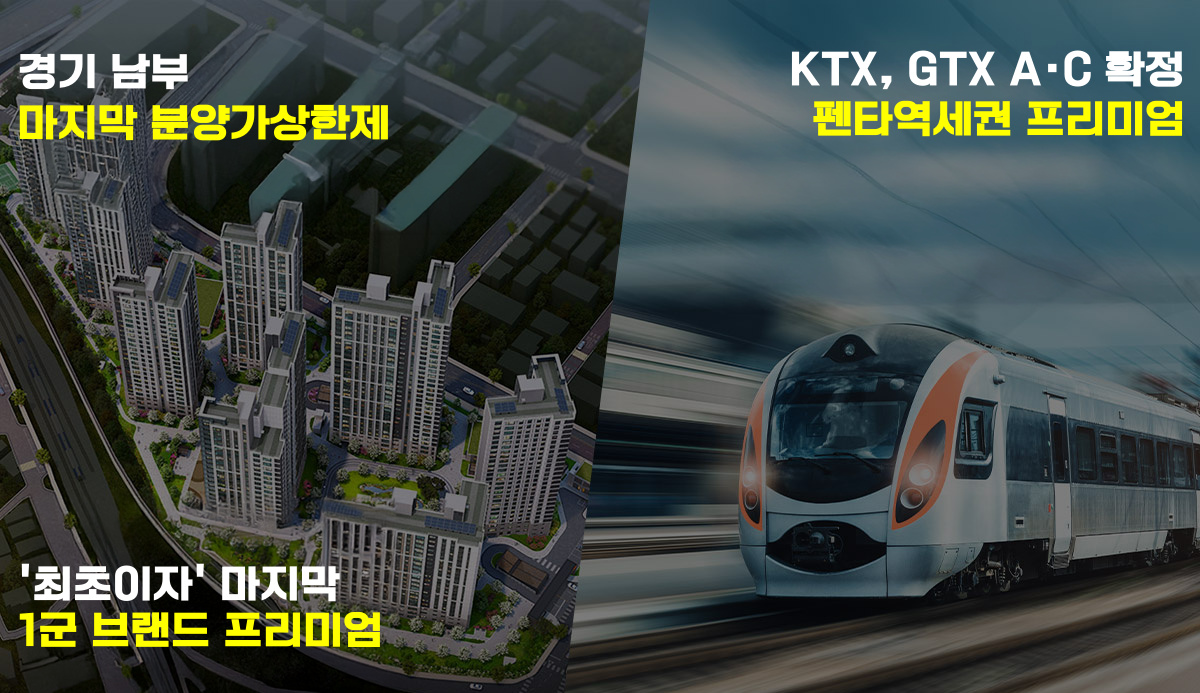
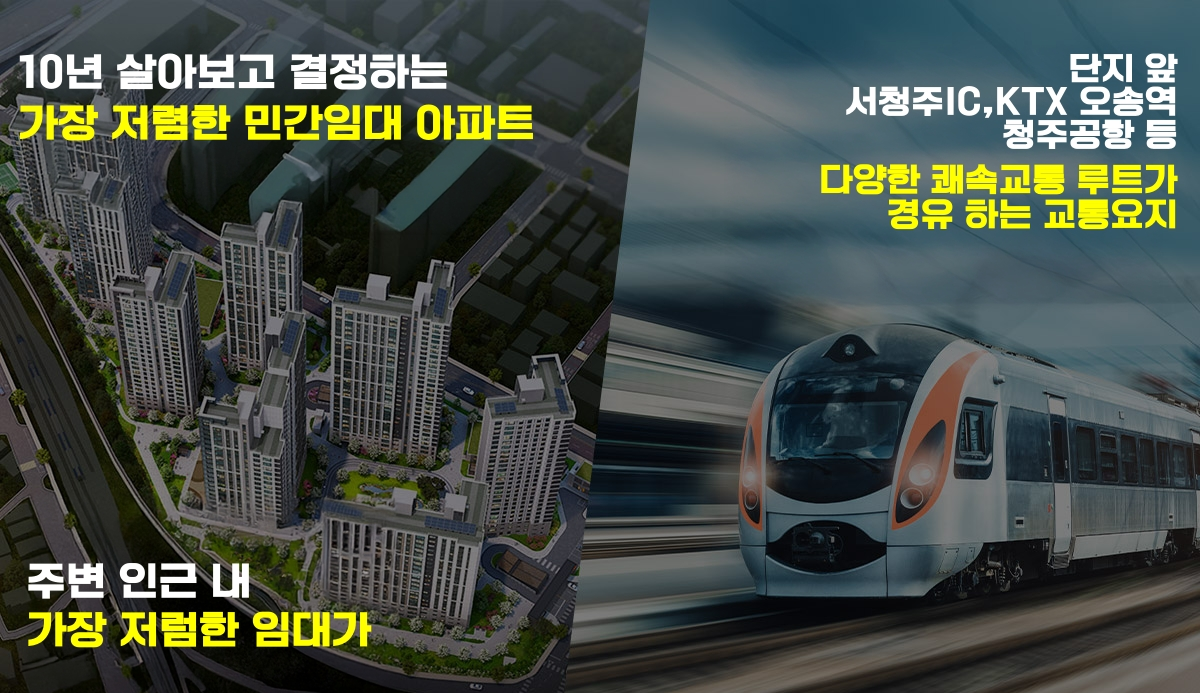
feat : 홈페이지 업데이트

Changed region(s): [[0.6475, 0.0606, 0.9867, 0.3333], [0.0, 0.0606, 0.4625, 0.2121], [0.0, 0.7879, 0.3392, 0.9394]]

diff --git a/src/pages/Main/Main.jsx b/src/pages/Main/Main.jsx
@@ -160,7 +160,7 @@ const Main = () => {
         // PC 버전
         <>
           <Header isChanged={isScroll} />
-          {isOpenPopup1 && (
+          {/* {isOpenPopup1 && (
             <Popup
               onClosed={() => setIsOpenPopup1(false)}
               popupImage={popupPage1}
@@ -180,7 +180,7 @@ const Main = () => {
               popupImage={popupPage3}
               numbering={3}
             />
-          )}
+          )} */}
 
           <div className={styles.imageContainer}>
             <img
@@ -194,7 +194,7 @@ const Main = () => {
                 압도적인 1군 브랜드{" "}
                 <span className={styles.greyText}>브랜드 프리미엄</span> |
                 부담을 덜어주는{" "}
-                <span className={styles.greyText}>저렴한 확정분양가</span> | 10년살고고
+                <span className={styles.greyText}>저렴한 확정분양가</span> | 10년살고
                 결정하는 기회{" "}
                 <span className={styles.greyText}>착한조건</span>
               </div>
@@ -230,10 +230,10 @@ const Main = () => {
                   " 방문 예약 고객 전원 신세계상품권 100% 증정 "
                 </div>
                 <div className={styles.text3}>
-                  - 브레인시티 중심상업지구 매우인접 <br />
-                  - 첨단 아주대학교 종합병원 도보 5분 <br />- 청주 지제역 1호선,
-                  STR, KTX, GTX-A · C 확정으로 펜타역세권 <br />- 모두를 누리는
-                  현대 테크노 레이원시티
+                  - 쉐프가 직접만드는 입주민 조식,중식 서비스제공 <br />
+                  - 수준 높은 국제교육 시설 단지내 YBM 영어마을 <br />
+                  - 취득세 종부세, 건보료, 주택수 미포함 등 다양한 세제혜택 <br />
+                  - 모두를 누리는 현대 테크노 레이원시티
                 </div>
                 <div className={styles.text4}>
                   <a
@@ -460,7 +460,7 @@ const Main = () => {
       ) : (
         // 모바일 버전
         <div className={styles.mobileMain}>
-          {isOpenPopup1 && (
+          {/* {isOpenPopup1 && (
             <MobilePopup
               onClosed={() => setIsOpenPopup1(!isOpenPopup1)}
               popupImage={mobilePopupPage1}
@@ -487,7 +487,7 @@ const Main = () => {
               popupImage={mobilePopupPage3}
               numbering={4}
             />
-          )}
+          )} */}
 
           <Header isChanged={isScroll} />
 
@@ -500,15 +500,15 @@ const Main = () => {
             <div className={styles.overlay}></div>
             <div className={styles.mainImageTextBox1}>
               <div className={styles.mainImageTextSub1}>
-                분양가 상한제 적용
-                <br />
-                <span className={styles.greyText}>처음이자 마지막</span>
-                <br />
-                1군브랜드
+                압도적인 1군브랜드
                 <br />
                 <span className={styles.greyText}>브랜드 프리미엄</span>
                 <br />
-                계약금 5%로 내집마련기회
+                부담을 덜어주는
+                <br />
+                <span className={styles.greyText}>저렴한 확정분양가</span>
+                <br />
+                10년 살아보고 결정하는
                 <br />
                 <span className={styles.greyText}>착한조건</span>
               </div>
@@ -524,13 +524,10 @@ const Main = () => {
               "방문예약을 하시면 신세계 상품권 100% 증정 "
             </div>
             <div className={styles.text3}>
-              - 브레인시티 중심상업지구 가장인접한 입지
-              <br />
-              - 첨단 아주대학교 AI종합병원, 의료R＆D센터 도보 5분
-              <br />
-              - 청주 지제역 KTX, GTX-A · C 확정 삼성전자 청주캠퍼스, 초등학교,
-              수변공원
-              <br />- 모두를 누리는 반도체밸리 주거 타운의 완성
+            - 쉐프가 직접만드는 입주민 조식,중식 서비스제공 <br />
+                  - 수준 높은 국제교육 시설 단지내 YBM 영어마을 <br />
+                  - 취득세 종부세, 건보료, 주택수 미포함 등 다양한 세제혜택 <br />
+                  - 모두를 누리는 현대 테크노 레이원시티
             </div>
             <div className={styles.text4}>
               {/* 외부 링크 대신 방문예약 클릭 시 팝업 호출 */}
@@ -550,7 +547,7 @@ const Main = () => {
           <div className={styles.container7}>
             <div className={styles.textBox}>
               <div className={styles.title}>
-                청주 브레인시티의 중심으로 사는
+                청주의 중심으로 사는
                 <br />
                 <span>최고의 브랜드 아파트</span>
               </div>

diff --git a/src/components/Bener/Bener.jsx b/src/components/Bener/Bener.jsx
@@ -47,7 +47,7 @@ const contents = (text, isLoaded) => {
                     지친 하루를 마치고 가장 나에 가까운 본연의 모습으로 돌아와 누리는 프리미엄입니다.
                 </div>
                 <div className={`${styles.text} ${isLoaded ? styles.showText : ''}`}>
-                    브레인시티의 중심
+                    청주 배후수요의 중심
                 </div>
                 <div className={`${styles.text} ${isLoaded ? styles.showText : ''}`}>
                     NO.1 브랜드 현대 테크노 레이원시티와 함께합니다.
@@ -58,16 +58,16 @@ const contents = (text, isLoaded) => {
         return (
             <>
                 <div className={`${styles.text} ${isLoaded ? styles.showText : ''}`}>
-                    아주대 종합병원이 선택한 새도시!
+                   현대가 선택한 새도시!
                 </div>
                 <div className={`${styles.text} ${isLoaded ? styles.showText : ''}`}>
-                    평택삼성전자캠퍼스 · 지제역 펜타역세권 프리미엄
+                    20조원이상 투자되는 SK하이닉스 신규 팸(FAB) · M15X 인접
                 </div>
                 <div className={`${styles.text} ${isLoaded ? styles.showText : ''}`}>
                     가장 높은 브랜드의 첫 시작
                 </div>
                 <div className={`${styles.text} ${isLoaded ? styles.showText : ''}`}>
-                현대 테크노 레이원시티
+                    현대 테크노 레이원시티
                 </div>
             </>
         );
@@ -78,7 +78,7 @@ const contents = (text, isLoaded) => {
                     수준 높은 생활, 첨단신도시내 착한 브랜드 아파트
                 </div>
                 <div className={`${styles.text} ${isLoaded ? styles.showText : ''}`}>
-                    기대하던 모든 프리미엄이현대 테크노 레이원시티에서 펼쳐집니다
+                    기대하던 모든 프리미엄이 현대 테크노 레이원시티에서 펼쳐집니다
                 </div>
             </>
         );
@@ -92,7 +92,7 @@ const contents = (text, isLoaded) => {
                     편리한 생활을 위한 최적의 공간설계
                 </div>
                 <div className={`${styles.text} ${isLoaded ? styles.showText : ''}`}>
-                    소수에게만 허락된 현대 테크노 레이원시티, 처음이자 마지막으로 브레인시티에 찾아옵니다
+                    소수에게만 허락된 현대 테크노 레이원시티, 청주에 찾아옵니다
                 </div>
             </>
         );

diff --git a/src/pages/LocationEnvironment/LocationEnvironment1.jsx b/src/pages/LocationEnvironment/LocationEnvironment1.jsx
@@ -23,15 +23,15 @@ import HelmetCOM from "../../components/HelmetCOM/HelmetCOM";
 const LocationSection = [
 	{ img: section2Image1, titleText: "확정된 개발호재로<br />청주을 더 새롭게 살수록 높아지는 미래가치", contentText: "SK하이닉스 신규팸 계획 20조원 투자예정<br />최첨단 반도체 산업의 최중심<br />" },
 	{ img: section2Image2, titleText: "도보5분으로<br />의세권을 누리릴 수 있는 프리미엄", contentText: "아주대 첨단의료AI복합타운<br />AI활용 첨단의료시설로<br /> 500병상 규모로 2030년 개원 예정" },
-	{ img: section2Image3, titleText: "수도권 시내·외를 더 빠르게<br />광역으로 통하는 특급 교통", contentText: "오송역 KTX, 청주공항 등 <br />1호선, SRT (현재운행중), KTX, GTX-A/C 확정<br /> 수도권 내 유일 펜타역세권 프리미엄" },
+	{ img: section2Image3, titleText: "수도권 시내·외를 더 빠르게<br />광역으로 통하는 특급 교통", contentText: "단지 앞 청주2순환로, 중부고속도로 서청주IC, <br />KTX 오송역, 청주공항 등 <br /> 다양한 쾌속교통 루트가 경유 하는 교통요지" },
 	{ img: section2Image4, titleText: "학교, 쇼핑,병원, 문화를 더 가깝게 한걸음에<br />모두 갖춘 중심생활", contentText: "봉덕초, 송절중, 봉명고교 등 도보5분 학세권 형성<br />파비뇽 아울렛 등 편의시설 인접" },
-	{ img: section2Image5, titleText: "브레인시티내 최초이자<br />마지막 1군브랜드 ", contentText: "현대건설 프리미엄" },
-	{ img: section2Image6, titleText: "브레인시티 최대 중심상업지구<br />도보 3분권내 초근접<br /> 마지막 브랜드단지  ", contentText: " 브레인시티 대장입지 <br />현대건설 프리미엄에 더한 슬세권 프리미엄" },
+	{ img: section2Image5, titleText: "압도적인 현대라는 1군브랜드 프리미엄 ", contentText: "현대건설 프리미엄" },
+	{ img: section2Image6, titleText: "모든 인프라가 모여있는 중심상업지구<br />도보 3분권내 초근접", contentText: " 단지 내 YBM 영어교육환경 및 조식,중식서비스제공 <br />현대건설 프리미엄에 품격있는 삶을 살 수 있는 기회" },
 ]
 
 const LocationEnvironment1 = () => {
 	const menuContents = [
-		{ title: "입지 안내영상", url: "/FloorPlan/videos" },
+		// { title: "입지 안내영상", url: "/FloorPlan/videos" },
 		{ title: "입지안내", url: "/LocationEnvironment/intro" }, 
 		{ title: "프리미엄", url: "/LocationEnvironment/primium" },
 					];

diff --git a/src/components/Header/Header.jsx b/src/components/Header/Header.jsx
@@ -25,15 +25,15 @@ const menuArray = [
     title: "사업개요",
     subMenu: [
       { subTitle: "사업안내", subUrl: "/BusinessGuide/intro" },
-      { subTitle: "분양일정", subUrl: "/BusinessGuide/plan" },
-      { subTitle: "선착순계약 서류안내", subUrl: "/BusinessGuide/documents" },
+      // { subTitle: "분양일정", subUrl: "/BusinessGuide/plan" },
+      // { subTitle: "선착순계약 서류안내", subUrl: "/BusinessGuide/documents" },
     ],
   },
 
   {
     title: "입지환경",
     subMenu: [
-      { subTitle: "입지안내영상", subUrl: "/FloorPlan/videos" },
+      // { subTitle: "입지안내영상", subUrl: "/FloorPlan/videos" },
       { subTitle: "입지안내", subUrl: "/LocationEnvironment/intro" },
       { subTitle: "프리미엄", subUrl: "/LocationEnvironment/primium" },
     ],
@@ -95,9 +95,9 @@ const Header = () => {
         <div className={styles.mobileHeader}>
           <div onClick={() => setIsMobileMenu(!isMobileMenu)}>
             {!isMobileMenu ? (
-              <AiOutlineMenu className={styles.icon} size={25} color="#095052" />
+              <AiOutlineMenu className={styles.icon} size={25} color="#7e0303" />
             ) : (
-              <IoCloseSharp className={styles.icon} size={25} color="#095052" />
+              <IoCloseSharp className={styles.icon} size={25} color="#7e0303" />
             )}
           </div>
           {isMobileMenu && (
@@ -113,7 +113,7 @@ const Header = () => {
           </Link>
           {/* 모바일에서는 기존 전화 연결 a 태그 유지 */}
           <a href="tel:1533-8848">
-            <IoCall className={styles.icon} size={25} color="#095052" />
+            <IoCall className={styles.icon} size={25} color="#7e0303" />
           </a>
         </div>
         {/* 모바일에서도 팝업을 렌더링 (최상위에서) */}

diff --git a/src/components/FixIcon/FixIcon.module.scss b/src/components/FixIcon/FixIcon.module.scss
@@ -30,7 +30,7 @@
         transform: translate(-50%, -50%);
         padding: 2vw 0;
         width: 7.5vw;
-        background-color: #095052;
+        background-color: #7e0303;
         border-radius: 50%;
         text-align: center;
         text-decoration: none;
@@ -42,7 +42,7 @@
 
     &:hover {
         padding: 1vw;
-        background-color: #095052;
+        background-color: #7e0303;
         border-radius: 50%;
         transform: scale(1.1);
         transition: transform 0.4s ease;
@@ -101,11 +101,11 @@
 }
 
 .buttomBtnContainer .btn1 {
-    background-color: #095052;
+    background-color: #7e0303;
 }
 
 .buttomBtnContainer .btn2 {
     background-color: #ffffff;
     border: none;
-    color: #095052;
+    color: #7e0303;
 }

diff --git a/src/pages/BusinessGuide/BusinessGuide2.jsx b/src/pages/BusinessGuide/BusinessGuide2.jsx
@@ -13,9 +13,9 @@ import page1 from "../../assets/BusinessGuide/BusinessGuide2/page1.jpg";
 
 const BusinessGuide2 = () => {
   const menuContents = [
-    { title: "분양일정", url: "/BusinessGuide/intro" },
-    { title: "분양일정", url: "/BusinessGuide/plan" },
-    { title: "선착순계약 서류안내", url: "/BusinessGuide/documents" },
+    { title: "사업안내", url: "/BusinessGuide/intro" },
+    // { title: "분양일정", url: "/BusinessGuide/plan" },
+    // { title: "선착순계약 서류안내", url: "/BusinessGuide/documents" },
   ];
   const [isScroll, setIsScroll] = useState(false);
   const [isImageVisible, setIsImageVisible] = useState(false); // isImageVisible 상태 추가

diff --git a/src/pages/BusinessGuide/BusinessGuide3.jsx b/src/pages/BusinessGuide/BusinessGuide3.jsx
@@ -13,8 +13,8 @@ import page1 from "../../assets/BusinessGuide/documents/contract.jpg";
 const BusinessGuide2 = () => {
   const menuContents = [
     { title: "사업안내", url: "/BusinessGuide/intro" },
-    { title: "계약서류안내", url: "/BusinessGuide/plan" },
-    { title: "선착순계약 서류안내", url: "/BusinessGuide/documents" },
+    // { title: "분양일정", url: "/BusinessGuide/plan" },
+    // { title: "선착순계약 서류안내", url: "/BusinessGuide/documents" },
   ];
   const [isScroll, setIsScroll] = useState(false);
   const [selectedOption, setSelectedOption] = useState(1); // 선택된 옵션 (1~6)

diff --git a/src/pages/BusinessGuide/BusinessGuide1.jsx b/src/pages/BusinessGuide/BusinessGuide1.jsx
@@ -26,8 +26,8 @@ const projectData = [
 const BusinessGuide1 = () => {
   const menuContents = [
     { title: "사업안내", url: "/BusinessGuide/intro" },
-    { title: "분양일정", url: "/BusinessGuide/plan" },
-    { title: "선착순계약 서류안내", url: "/BusinessGuide/documents" },
+    // { title: "분양일정", url: "/BusinessGuide/plan" },
+    // { title: "선착순계약 서류안내", url: "/BusinessGuide/documents" },
   ];
   const [isScroll, setIsScroll] = useState(false);
   const { pathname } = useLocation(); // 현재 경로를 가져옴

diff --git a/src/components/SlideMenu/SlideMenu.module.scss b/src/components/SlideMenu/SlideMenu.module.scss
@@ -66,7 +66,7 @@
     display: block;
     padding: 10px 15px;
     text-decoration: none;
-    color: #095052;
+    color: #7e0303;
     transition: background-color 0.3s ease;
   
     &:hover {
@@ -80,7 +80,7 @@
     border-bottom: 2px solid #cbcbcb;
     
     .linkItem {
-      color: #095052; // 글자색 변경 (원하는 색상으로 조정)
+      color: #7e0303; // 글자색 변경 (원하는 색상으로 조정)
       font-weight: bold; // 글자 굵기 변경
       font-size: 0.9rem; // 글자 크기 조정
     }

diff --git a/src/pages/FloorPlan/FloorPlan.module.scss b/src/pages/FloorPlan/FloorPlan.module.scss
@@ -30,7 +30,7 @@
     div:nth-of-type(2) {
       margin-top: 0.5vw;
       font-weight: 800;
-      color: #095052;
+      color: #7e0303;
     }
   }
   
@@ -139,7 +139,7 @@
     margin-right: 30px; /* 탭 사이의 간격 */
     font-size: 1.1rem;
     font-weight: 500;
-    color: #095052; /* 기본 글자색 */
+    color: #7e0303; /* 기본 글자색 */
     cursor: pointer;
     transition: color 0.3s ease, background-color 0.3s ease, border-bottom 0.3s ease;
     position: relative;

diff --git a/src/pages/FloorPlan/FloorPlan6.jsx b/src/pages/FloorPlan/FloorPlan6.jsx
@@ -20,7 +20,7 @@ const FloorPlan6 = () => {
 		{ title: "84B", url: "/FloorPlan/84B" },
 		{ title: "119A", url: "/FloorPlan/114A" },
 		{ title: "119B", url: "/FloorPlan/114B" },
-    	{ title: "세대안내영상", url: "/FloorPlan/videos" }  // 세대안내영상 링크s
+    	// { title: "세대안내영상", url: "/FloorPlan/videos" }  // 세대안내영상 링크s
 	];
 
 	const [isScroll, setIsScroll] = useState(false);

diff --git a/src/pages/LocationEnvironment/LocationEnvironment2.jsx b/src/pages/LocationEnvironment/LocationEnvironment2.jsx
@@ -14,7 +14,7 @@ import page1 from "../../assets/LocationEnvironment/LocationEnvironment2/page1.j
 
 const LocationEnvironment1 = () => {
 	const menuContents = [
-		{ title: "입지 안내영상", url: "/FloorPlan/videos" },
+		// { title: "입지 안내영상", url: "/FloorPlan/videos" },
 		{ title: "입지안내", url: "/LocationEnvironment/intro" }, 
 		{ title: "프리미엄", url: "/LocationEnvironment/primium" },
 		];
